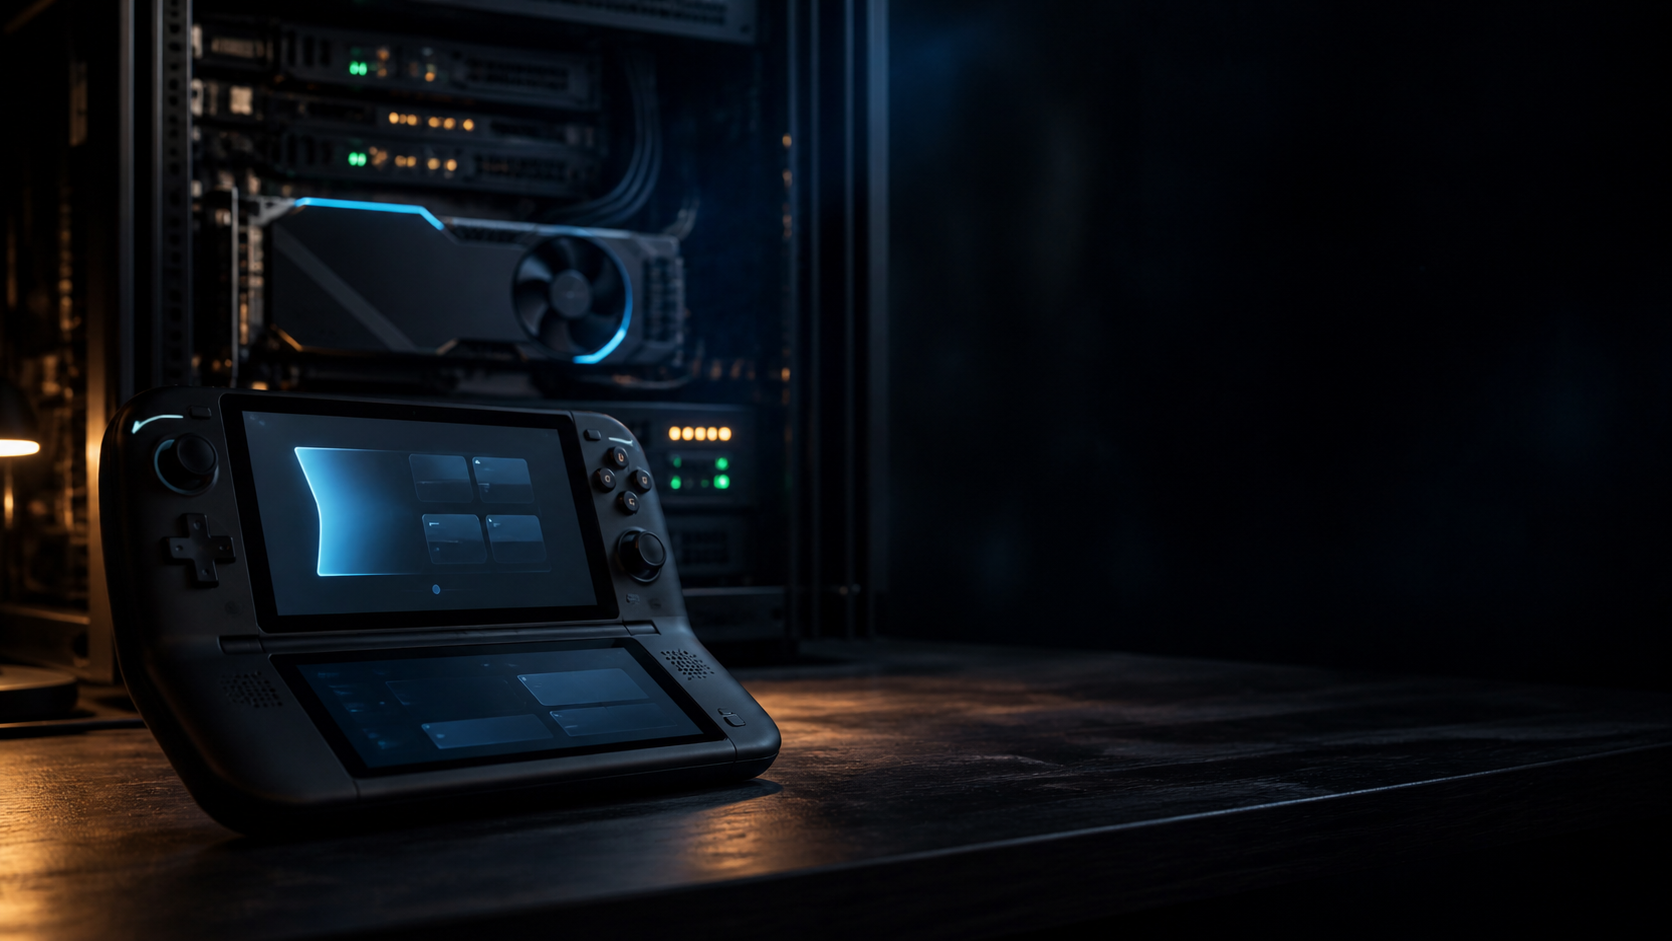
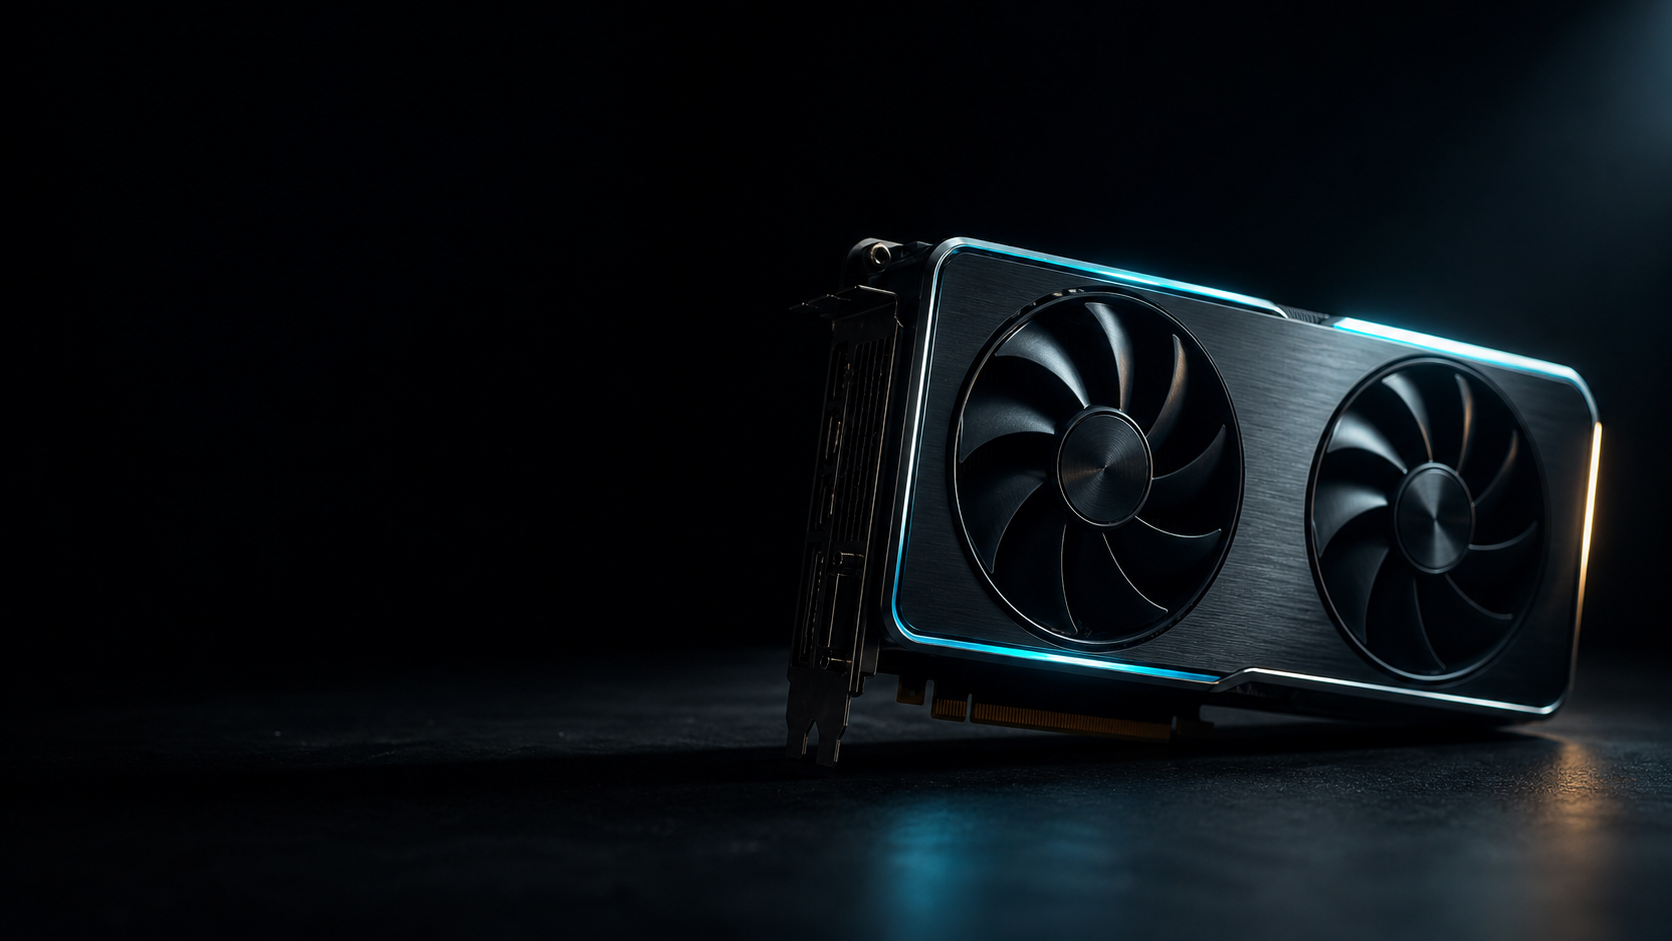
Improve thor-local-inference post: SVG diagrams, new hero, drop private repo link
- Add inline SVG routing-decision diagram (frontier vs local routing)
- Add inline SVG thor-vid pipeline diagram (yt-dlp split → Whisper + VL → merge)
- Replace hero image with cleaner single-subject GPU portrait
- Drop reference to private homelab repo
- Keep public thor-tools link (repo is now live at github.com/kvncrw/thor-tools)

diff --git a/posts/claude-local-inference-skills.html b/posts/claude-local-inference-skills.html
@@ -10,6 +10,58 @@
   <link href="https://fonts.googleapis.com/css2?family=DM+Serif+Display:ital@0;1&family=JetBrains+Mono:wght@300;400;500;600&family=Outfit:wght@300;400;500;600;700&display=swap" rel="stylesheet">
   <link rel="stylesheet" href="../styles.css">
   <style>
+    .article-diagram {
+      margin: 40px 0;
+    }
+    .article-diagram svg {
+      width: 100%;
+      height: auto;
+      display: block;
+      border: 1px solid var(--border);
+      border-radius: 8px;
+      background: var(--bg-secondary);
+    }
+    .article-diagram figcaption {
+      margin-top: 10px;
+      font-family: var(--font-mono);
+      font-size: 0.72rem;
+      color: var(--text-muted);
+      line-height: 1.6;
+    }
+    .article-diagram .dg-text {
+      font-family: 'JetBrains Mono', ui-monospace, monospace;
+      fill: #fafafa;
+    }
+    .article-diagram .dg-muted {
+      fill: #a1a1aa;
+    }
+    .article-diagram .dg-dim {
+      fill: #71717a;
+    }
+    .article-diagram .dg-box {
+      fill: #18181b;
+      stroke: #27272a;
+      stroke-width: 1;
+    }
+    .article-diagram .dg-box-accent {
+      fill: #18181b;
+      stroke: #f59e0b;
+      stroke-width: 1.25;
+    }
+    .article-diagram .dg-box-cool {
+      fill: #18181b;
+      stroke: #60a5fa;
+      stroke-width: 1.25;
+    }
+    .article-diagram .dg-line {
+      stroke: #3f3f46;
+      stroke-width: 1.25;
+      fill: none;
+    }
+    .article-diagram .dg-line-accent { stroke: #f59e0b; }
+    .article-diagram .dg-line-cool { stroke: #60a5fa; }
+    .article-diagram .dg-amber { fill: #f59e0b; }
+    .article-diagram .dg-blue { fill: #60a5fa; }
     .hero-split {
       display: grid;
       grid-template-columns: 1fr 1fr;
@@ -105,6 +157,51 @@
         <li><strong>Bulk research.</strong> Reading ten blog posts to extract one comparison table, summarizing a channel's worth of YouTube videos, distilling release notes across a dozen versions. Token-heavy, judgment-light.</li>
       </ul>
 
+      <figure class="article-diagram">
+        <svg viewBox="0 0 760 320" role="img" aria-label="Routing diagram showing frontier reasoning routed to a paid frontier API while bulk narration and bulk research route to a local GPU.">
+          <!-- left column: input buckets -->
+          <g>
+            <rect class="dg-box" x="20" y="30" width="280" height="64" rx="6"/>
+            <text class="dg-text" x="36" y="56" font-size="13" font-weight="600">frontier reasoning</text>
+            <text class="dg-muted" x="36" y="78" font-size="11">architecture, refactors, novel analysis</text>
+
+            <rect class="dg-box" x="20" y="128" width="280" height="64" rx="6"/>
+            <text class="dg-text" x="36" y="154" font-size="13" font-weight="600">bulk narration</text>
+            <text class="dg-muted" x="36" y="176" font-size="11">OCR, screenshots, video, frame captioning</text>
+
+            <rect class="dg-box" x="20" y="226" width="280" height="64" rx="6"/>
+            <text class="dg-text" x="36" y="252" font-size="13" font-weight="600">bulk research</text>
+            <text class="dg-muted" x="36" y="274" font-size="11">cross-doc summary, release-note distill</text>
+          </g>
+
+          <!-- connectors -->
+          <g>
+            <path class="dg-line dg-line-accent" d="M 300 62 C 380 62, 380 70, 460 70" />
+            <polygon class="dg-amber" points="460,66 470,70 460,74" />
+
+            <path class="dg-line dg-line-cool" d="M 300 160 C 380 160, 380 220, 460 220" />
+            <path class="dg-line dg-line-cool" d="M 300 258 C 380 258, 380 234, 460 234" />
+            <polygon class="dg-blue" points="460,216 470,220 460,224" />
+            <polygon class="dg-blue" points="460,230 470,234 460,238" />
+          </g>
+
+          <!-- right column: destinations -->
+          <g>
+            <rect class="dg-box-accent" x="470" y="30" width="270" height="80" rx="6"/>
+            <text class="dg-amber" x="490" y="56" font-size="11" font-weight="500" letter-spacing="1">FRONTIER API</text>
+            <text class="dg-text" x="490" y="78" font-size="13" font-weight="600">paid model, billed per token</text>
+            <text class="dg-muted" x="490" y="98" font-size="11">Claude / GPT / etc — reserved for hard work</text>
+
+            <rect class="dg-box-cool" x="470" y="180" width="270" height="100" rx="6"/>
+            <text class="dg-blue" x="490" y="206" font-size="11" font-weight="500" letter-spacing="1">LOCAL GPU</text>
+            <text class="dg-text" x="490" y="228" font-size="13" font-weight="600">RTX 5090 in the homelab</text>
+            <text class="dg-muted" x="490" y="248" font-size="11">vLLM + faster-whisper, OpenAI-compatible</text>
+            <text class="dg-dim" x="490" y="266" font-size="11">cost = wattage, not tokens</text>
+          </g>
+        </svg>
+        <figcaption>The routing rule. Anything frontier-shaped goes to the paid API. Anything narration- or research-shaped goes to the homelab GPU.</figcaption>
+      </figure>
+
       <p>Buckets two and three are where local hardware wins. A single 5090 with 32 GB of VRAM can run a 30B-class model with plenty of context, and the only ongoing cost is the wattage. Once a model lives behind an OpenAI-compatible URL, anything that speaks the chat-completions protocol can call it. That includes Claude, when you give it a tool that points at the right endpoint.</p>
 
       <h2>The Hardware Behind the Endpoints</h2>
@@ -118,7 +215,7 @@ http://172.16.100.117:31800/v1
 # audio transcription (faster-whisper, OpenAI-compatible)
 http://172.16.100.117:31900/v1</code></pre>
 
-      <p>Both run from Helm charts in my <code>homelab</code> repo. The vision model is small enough to share the GPU with my agent-routing model through time-slicing, so the same 5090 also handles tool-calling work for <a href="/posts/honeypot-pentagi-bridge">PentAGI</a> and a few other agents. There is nothing exotic in the stack: vLLM, faster-whisper-server, ArgoCD, a NodePort. The interesting part is what you do with these endpoints once they exist.</p>
+      <p>The vision model is small enough to share the GPU with my agent-routing model through time-slicing, so the same 5090 also handles tool-calling work for <a href="/posts/honeypot-pentagi-bridge">PentAGI</a> and a few other agents. There is nothing exotic in the stack: vLLM, faster-whisper-server, ArgoCD, a NodePort. The interesting part is what you do with these endpoints once they exist.</p>
 
       <h2>thor-ask: Read the Screen, Read the Image</h2>
 
@@ -189,7 +286,65 @@ scene: Android home selector dialog with "ES-DE" and "AYN Launcher" options,
 
       <p>The runtime, on a single 5090, lands around twice the wall-clock duration of the source video (a 12-minute clip takes roughly two minutes, dominated by the frame caption pass). Multiply that by the ten videos I would have watched to set up the Thor and the trade is obvious. The frontier-token equivalent of the same work, with vision-token pricing on every frame, would have been comically expensive.</p>
 
-      <p>The full pipeline diagram is small enough to fit in a paragraph: yt-dlp pulls the media, ffmpeg makes a 16k mono WAV, faster-whisper transcribes, ffmpeg drops a frame every 10 seconds, the vision model captions each frame, and a tiny Python script merges everything by timestamp. There is no orchestrator, no queue, no cluster of workers. One CLI, one node, one report.</p>
+      <figure class="article-diagram">
+        <svg viewBox="0 0 760 280" role="img" aria-label="thor-vid pipeline: yt-dlp splits a video into audio and frames, Whisper transcribes audio, Qwen2.5-VL captions frames, both streams merge into a single timestamped markdown report.">
+          <!-- input -->
+          <rect class="dg-box" x="20" y="116" width="120" height="48" rx="6"/>
+          <text class="dg-text" x="40" y="140" font-size="12" font-weight="600">URL or file</text>
+          <text class="dg-muted" x="40" y="156" font-size="10">.mp4 / .mov / yt</text>
+
+          <!-- yt-dlp -->
+          <rect class="dg-box" x="180" y="116" width="100" height="48" rx="6"/>
+          <text class="dg-text" x="200" y="140" font-size="12" font-weight="600">yt-dlp</text>
+          <text class="dg-muted" x="200" y="156" font-size="10">+ ffmpeg</text>
+
+          <!-- arrow input -> yt-dlp -->
+          <path class="dg-line" d="M 140 140 L 175 140" />
+          <polygon class="dg-dim" points="175,136 183,140 175,144" />
+
+          <!-- split paths -->
+          <path class="dg-line" d="M 280 140 C 305 140, 305 60, 330 60" />
+          <path class="dg-line" d="M 280 140 C 305 140, 305 220, 330 220" />
+          <polygon class="dg-dim" points="330,56 338,60 330,64" />
+          <polygon class="dg-dim" points="330,216 338,220 330,224" />
+
+          <!-- top track: audio -->
+          <rect class="dg-box" x="338" y="36" width="120" height="48" rx="6"/>
+          <text class="dg-text" x="358" y="60" font-size="12" font-weight="600">audio.wav</text>
+          <text class="dg-muted" x="358" y="76" font-size="10">16 kHz mono</text>
+
+          <path class="dg-line" d="M 458 60 L 488 60" />
+          <polygon class="dg-dim" points="488,56 496,60 488,64" />
+
+          <rect class="dg-box-cool" x="496" y="36" width="120" height="48" rx="6"/>
+          <text class="dg-blue" x="516" y="56" font-size="10" letter-spacing="1">WHISPER</text>
+          <text class="dg-text" x="516" y="74" font-size="12" font-weight="600">transcript.json</text>
+
+          <!-- bottom track: frames -->
+          <rect class="dg-box" x="338" y="196" width="120" height="48" rx="6"/>
+          <text class="dg-text" x="358" y="220" font-size="12" font-weight="600">frames/*.jpg</text>
+          <text class="dg-muted" x="358" y="236" font-size="10">~4–8 per minute</text>
+
+          <path class="dg-line" d="M 458 220 L 488 220" />
+          <polygon class="dg-dim" points="488,216 496,220 488,224" />
+
+          <rect class="dg-box-cool" x="496" y="196" width="120" height="48" rx="6"/>
+          <text class="dg-blue" x="516" y="216" font-size="10" letter-spacing="1">QWEN2.5-VL</text>
+          <text class="dg-text" x="516" y="234" font-size="12" font-weight="600">scenes.json</text>
+
+          <!-- merge converger -->
+          <path class="dg-line" d="M 616 60 C 660 60, 660 132, 685 132" />
+          <path class="dg-line" d="M 616 220 C 660 220, 660 148, 685 148" />
+          <polygon class="dg-dim" points="685,128 693,132 685,136" />
+          <polygon class="dg-dim" points="685,144 693,148 685,152" />
+
+          <!-- output -->
+          <rect class="dg-box-accent" x="640" y="116" width="100" height="48" rx="6"/>
+          <text class="dg-amber" x="660" y="136" font-size="10" letter-spacing="1">MERGE</text>
+          <text class="dg-text" x="660" y="154" font-size="12" font-weight="600">summary.md</text>
+        </svg>
+        <figcaption>One CLI, one node, one report. yt-dlp pulls the media, ffmpeg splits audio and frames, Whisper and the VL model run in parallel, a small script merges by timestamp.</figcaption>
+      </figure>
 
       <h2>Skills, or How You Stop Reminding Claude</h2>
 
@@ -292,7 +447,7 @@ claude: [runs thor-vid on each URL]
         <li><strong>Write the skill last.</strong> The CLI has to be reliable before the skill is worth installing — a flaky tool that Claude reaches for automatically is worse than no tool at all.</li>
       </ol>
 
-      <p>The full source for <code>thor-ask</code> and <code>thor-vid</code> lives in <a href="https://github.com/kvncrw/thor-tools" target="_blank" rel="noopener">kvncrw/thor-tools</a>, the vLLM and Whisper Helm charts are in <a href="https://github.com/kvncrw/homelab" target="_blank" rel="noopener">kvncrw/homelab</a>, and the skills directory layout follows the standard <a href="https://docs.claude.com/en/docs/claude-code/skills" target="_blank" rel="noopener">Claude Code skill format</a>. Nothing here requires a special integration — it's all OpenAI-compatible HTTP and a few markdown files.</p>
+      <p>The full source for <code>thor-ask</code> and <code>thor-vid</code> lives in <a href="https://github.com/kvncrw/thor-tools" target="_blank" rel="noopener">kvncrw/thor-tools</a>, and the skills directory layout follows the standard <a href="https://docs.claude.com/en/docs/claude-code/skills" target="_blank" rel="noopener">Claude Code skill format</a>. Nothing here requires a special integration — it's all OpenAI-compatible HTTP and a few markdown files.</p>
 
       <h2>Related Posts</h2>
 